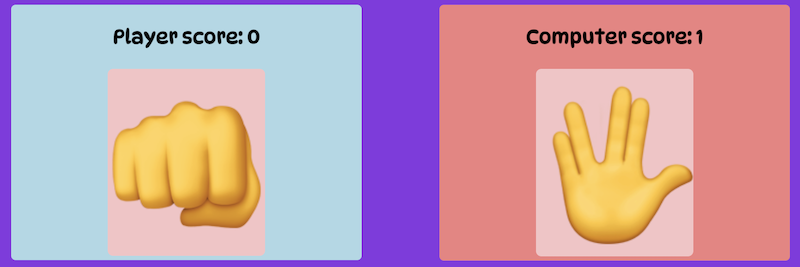
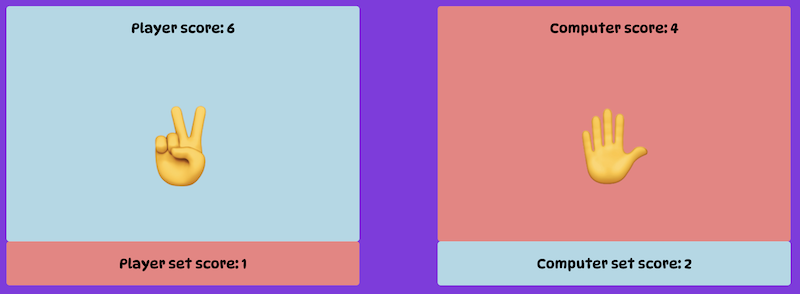
revised readme

diff --git a/assets/js/script.js b/assets/js/script.js
@@ -12,7 +12,7 @@
  const playerSetScore = document.getElementById('player-set-score');
  const computerSetScore = document.getElementById('computer-set-score');
  var popup = document.getElementById("myPopup");
-//  messages.textContent = "New Game";
+
  const choices = ["rock","paper","scissors","lizard","spock"];
  const setChoice = {
     rock: { name: 'Rock', defeats: ['scissors', 'lizard'] },

diff --git a/README.md b/README.md
@@ -95,17 +95,17 @@ Message area displays information to the user such as 'New Game', 'Player Wins',
 
 ### Player and Computer Image Selection and Score
 
-The two display areas display player and computer choice and score. After game starts or reset both scores start at zero and increment as play progresses with logic operators in javaScript functions of game deciding which score should be incremented. Enlarged emoji images representing the player choice and computer choice are displayed in their respective display areas.
+The two display areas display player and computer choice and score. After game starts or reset both scores start at zero and increment as play progresses with logic operators in javaScript functions, as per rules of game, deciding which score should be incremented (or not if its a tie). Enlarged emoji images representing the player choice and computer choice are displayed in their respective display areas. After either player reached a score of 7 then that player wins the set and set score is registered under emoji image. Game scores are reset to zero and the game proceeds until either player reaches 7 again and set score is updated and new game starts. The first to 5 sets wins the match and reaches game over - a smily or sad face emoji is displayed in both player and computer display areas.
 
 
 ![Player and Computer Image Selection and Score](./assets/images/readme_images/player-computer-selection-score.png)
 
 ### Footer (Rules)
 
-The rules of the game need to be available to player but take up a lot of screen space on smaller devices. To view  rules, click on footer and rules will appear in a popup which can be collapsed again by clicking on popup.
+The rules of the game need to be available to player but take up a lot of screen space on smaller devices. To view  rules, click on footer and rules will appear in a popup which can be collapsed again by clicking on popup. As well as the individual rules that decide a player/computer itteration the popup gives a brief description on where the game originated and how first to seven games wins the set and the first to win five sets wins the match.
+On loading the game for the first time or on reset the rules popup starts up 2 seconds when page is fully loaded. This function is initiated to alert player to rules of the game. The rules can be collapsed by clicking on footer or popup.
 
-
-![rules](./assets/images/readme_images/Rules-popup.png)
+![rules](./assets/images/readme_images/rules-popup.png)
 
 
 ## Technologies Used
@@ -120,14 +120,19 @@ The rules of the game need to be available to player but take up a lot of screen
 
 - Hover.css:
 Hover.css was used on the Player selection buttons in the player choice selection area to enlarge button while being hovered over.
+
 - Google Fonts:
 Google fonts were used to import the 'DynaPuff' font into the header section of index.html which is used throughout the project by referencing font family in style.css file.
+
 - Font Awesome:
 Font Awesome was used in the game to add an icon for game reset.
+
 - Git:
 Git was used for version control by utilizing the Gitpod terminal to commit to Git and Push to GitHub.
+
 - GitHub:
 GitHub is used to store the projects code after being pushed from Git.
+
 - VS Code:
 Integrated Development Environment used to develop the website.
 
@@ -142,6 +147,10 @@ Used to test and debug site.
 
 -  mycolor.space: 
 Used to create colour pallet.
+
+- Canva graphic designer platform
+Used to remove background on images and resize images.
+
 
 ## Testing
 
@@ -161,15 +170,13 @@ Validator indicated that no errors were observed.
 Validator indicated that no errors were observed.
 
 
-- JavaScript code was tested by passing code through jshint.com
+- JavaScript code was passed through jshint.com evaluation tool.
 
 ![jshint results](./assets/images/readme_images/jshint-validator.png)
 
 
 
-19 warnings
-
-Warnings predominantly relate to variables and their interaction with different version of browsers and are not significant.
+- There were 26 warnings predominantly related to variables and their interaction with different version of browsers and are not significant.
 
 No errors were noted.
 
